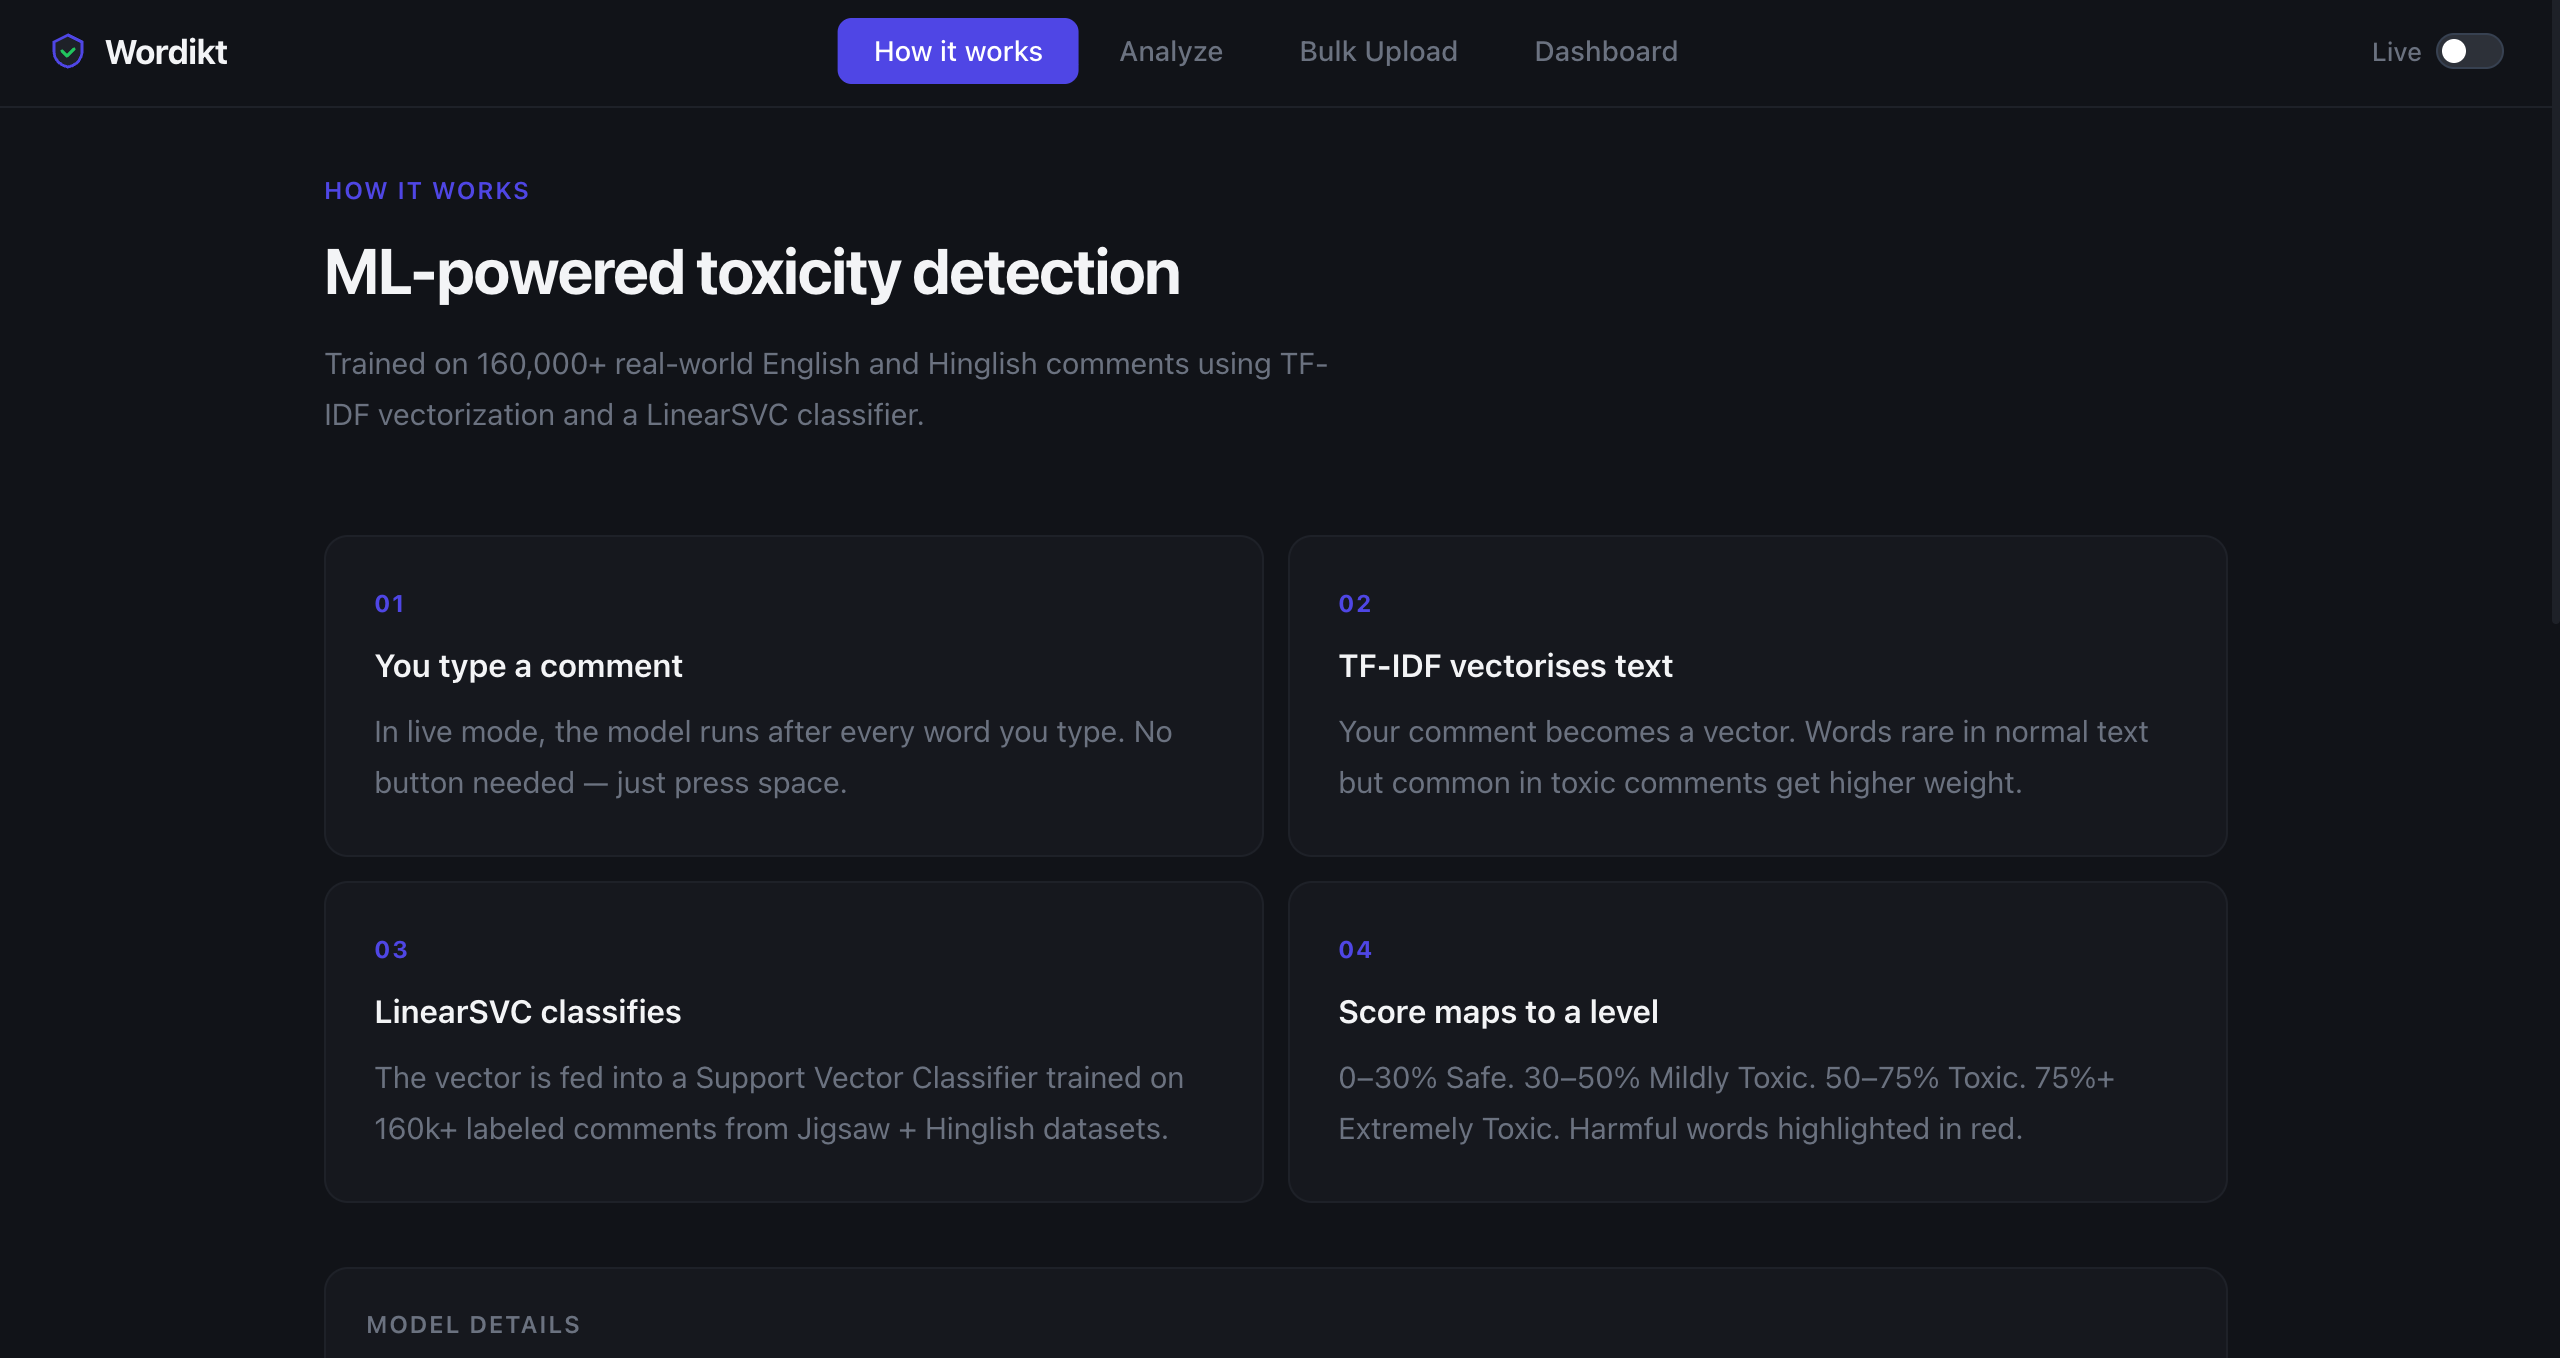
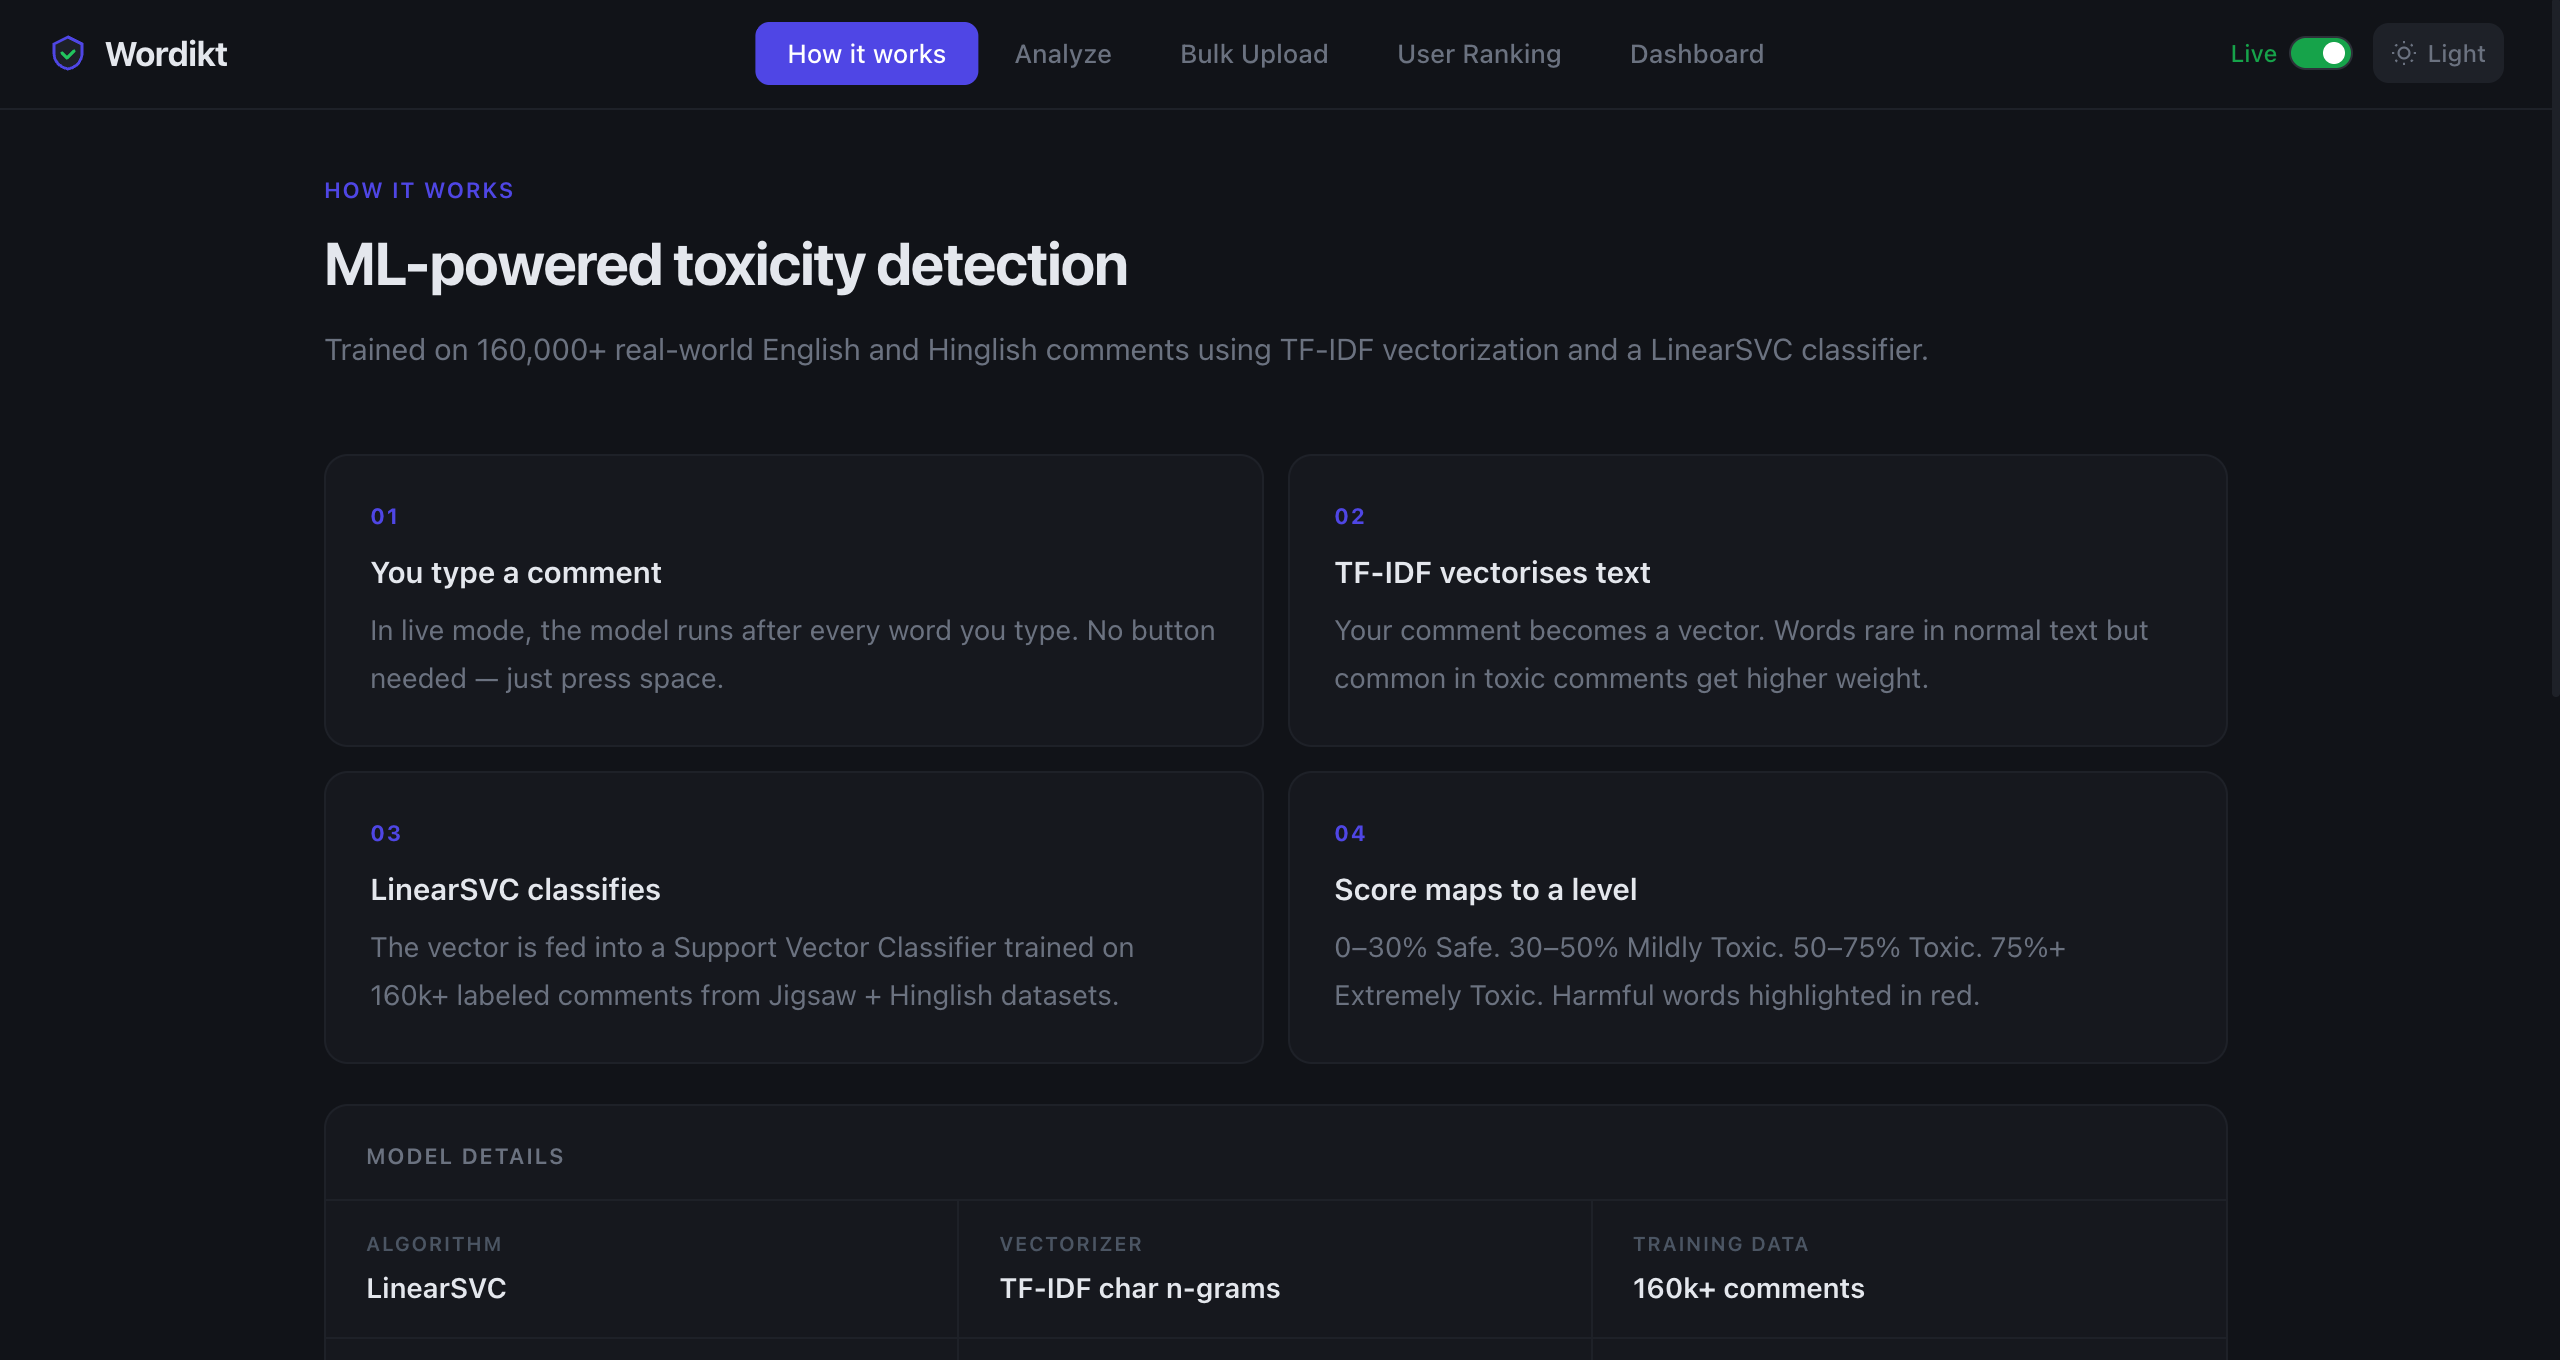
added

diff --git a/index.html b/index.html
@@ -27,7 +27,7 @@
     <h1 class="hero-name">Tanisha<br><span class="highlight">Sharma</span></h1>
     <p class="hero-title"> CS Student · Frontend Dev · Open Source Contributor</p>
     <p class="hero-desc">
-      First-year Computer Science Engineer at IGDTUW, Delhi. Building scalable interfaces, contributing to open source, and solving problems one algorithm at a time.
+      Second-year Computer Science Engineer at IGDTUW, Delhi. Building scalable interfaces, contributing to open source, and solving problems one algorithm at a time.
     </p>
     <div class="hero-stats">
       <div class="stat">
@@ -69,7 +69,7 @@
 
   <div class="about-text fade-up">
     <p>
-      I'm a <strong>first-year B.Tech Computer Science student</strong> at Indira Gandhi Delhi Technical University for Women (IGDTUW), Delhi — one of India's premier technical universities for women. I ended my first semester with a <strong>9.29 CGPA</strong> and haven't stopped building since.
+      I'm a <strong>second-year B.Tech Computer Science student</strong> at Indira Gandhi Delhi Technical University for Women (IGDTUW), Delhi — one of India's premier technical universities for women. I ended my second semester with a <strong>9.29 CGPA</strong> and haven't stopped building since.
     </p>
     <p>
       As a <strong>Frontend Developer</strong> at IGDTUW Insider, I design and ship responsive UIs used by my university community. I'm also an active <strong>open-source contributor</strong> through GirlScript Summer of Code and Open Source Connect India, collaborating with developers globally.
@@ -168,12 +168,12 @@
         <div class="project-tags">
           <span class="tag">Android</span>
           <span class="tag">AI</span>
-          <span class="tag">Java</span>
+          <span class="tag">Kotlin</span>
           <span class="tag">MAD</span>
         </div>
         <h3 class="project-name">TrashData</h3>
         <p class="project-desc">
-          An Android app that identifies and manages unnecessary device files using AI-powered keyword analysis. Categorizes files by size, age, and metadata — then lets users safely delete junk with a single tap.
+          An Android app that identifies and manages unnecessary device files using AI-powered keyword analysis. Categorizes files by size, age, and metadata — then lets users safely delete junk with a single tap. Built with Kotlin, uses a custom ML pipeline to flag low-value files without false positives.        
         </p>
         <div class="project-links">
           <a href="https://github.com/tanishas05/TrashData" class="project-link">⬡ GitHub</a>
@@ -193,26 +193,19 @@
         <div class="project-tags">
           <span class="tag">Python</span>
           <span class="tag">Machine Learning</span>
+          <span class="tag">FastAPI</span>
+          <span class="tag">React</span>
         </div>
-        <h3 class="project-name">Toxic Comments Detector</h3>
+        <h3 class="project-name">Wordikt</h3>
         <p class="project-desc">
-          A Python application that identifies and manages toxic comments using machine learning techniques. Categorizes comments by sentiment and severity.
-        </p>
-        <div class="project-links">
+Real-time comment toxicity classifier trained on 115K+ English and Hinglish comments. Uses TF-IDF char n-grams + LinearSVC to detect 6 toxicity categories with 89.5% accuracy. Features : live word-by-word analysis, bulk file upload with pause/resume, and a session dashboard with flagged term tracking.    
+          </p>
+        <div class="project-links">    
           <a href="https://github.com/tanishas05/toxic-comments-detector" class="project-link">⬡ GitHub</a>
           <a href="https://toxic-comments-detector.vercel.app" class="project-link">↗ Live</a>
         </div>
       </div>
     </div>
- <!-- 
-    Add Project Card 
-    <div class="add-project-card" onclick="openModal()">
-      <div class="add-icon">＋</div>
-      <span>add a project</span>
-    </div>
- -->
-
-   
 
   </div>
 </section>